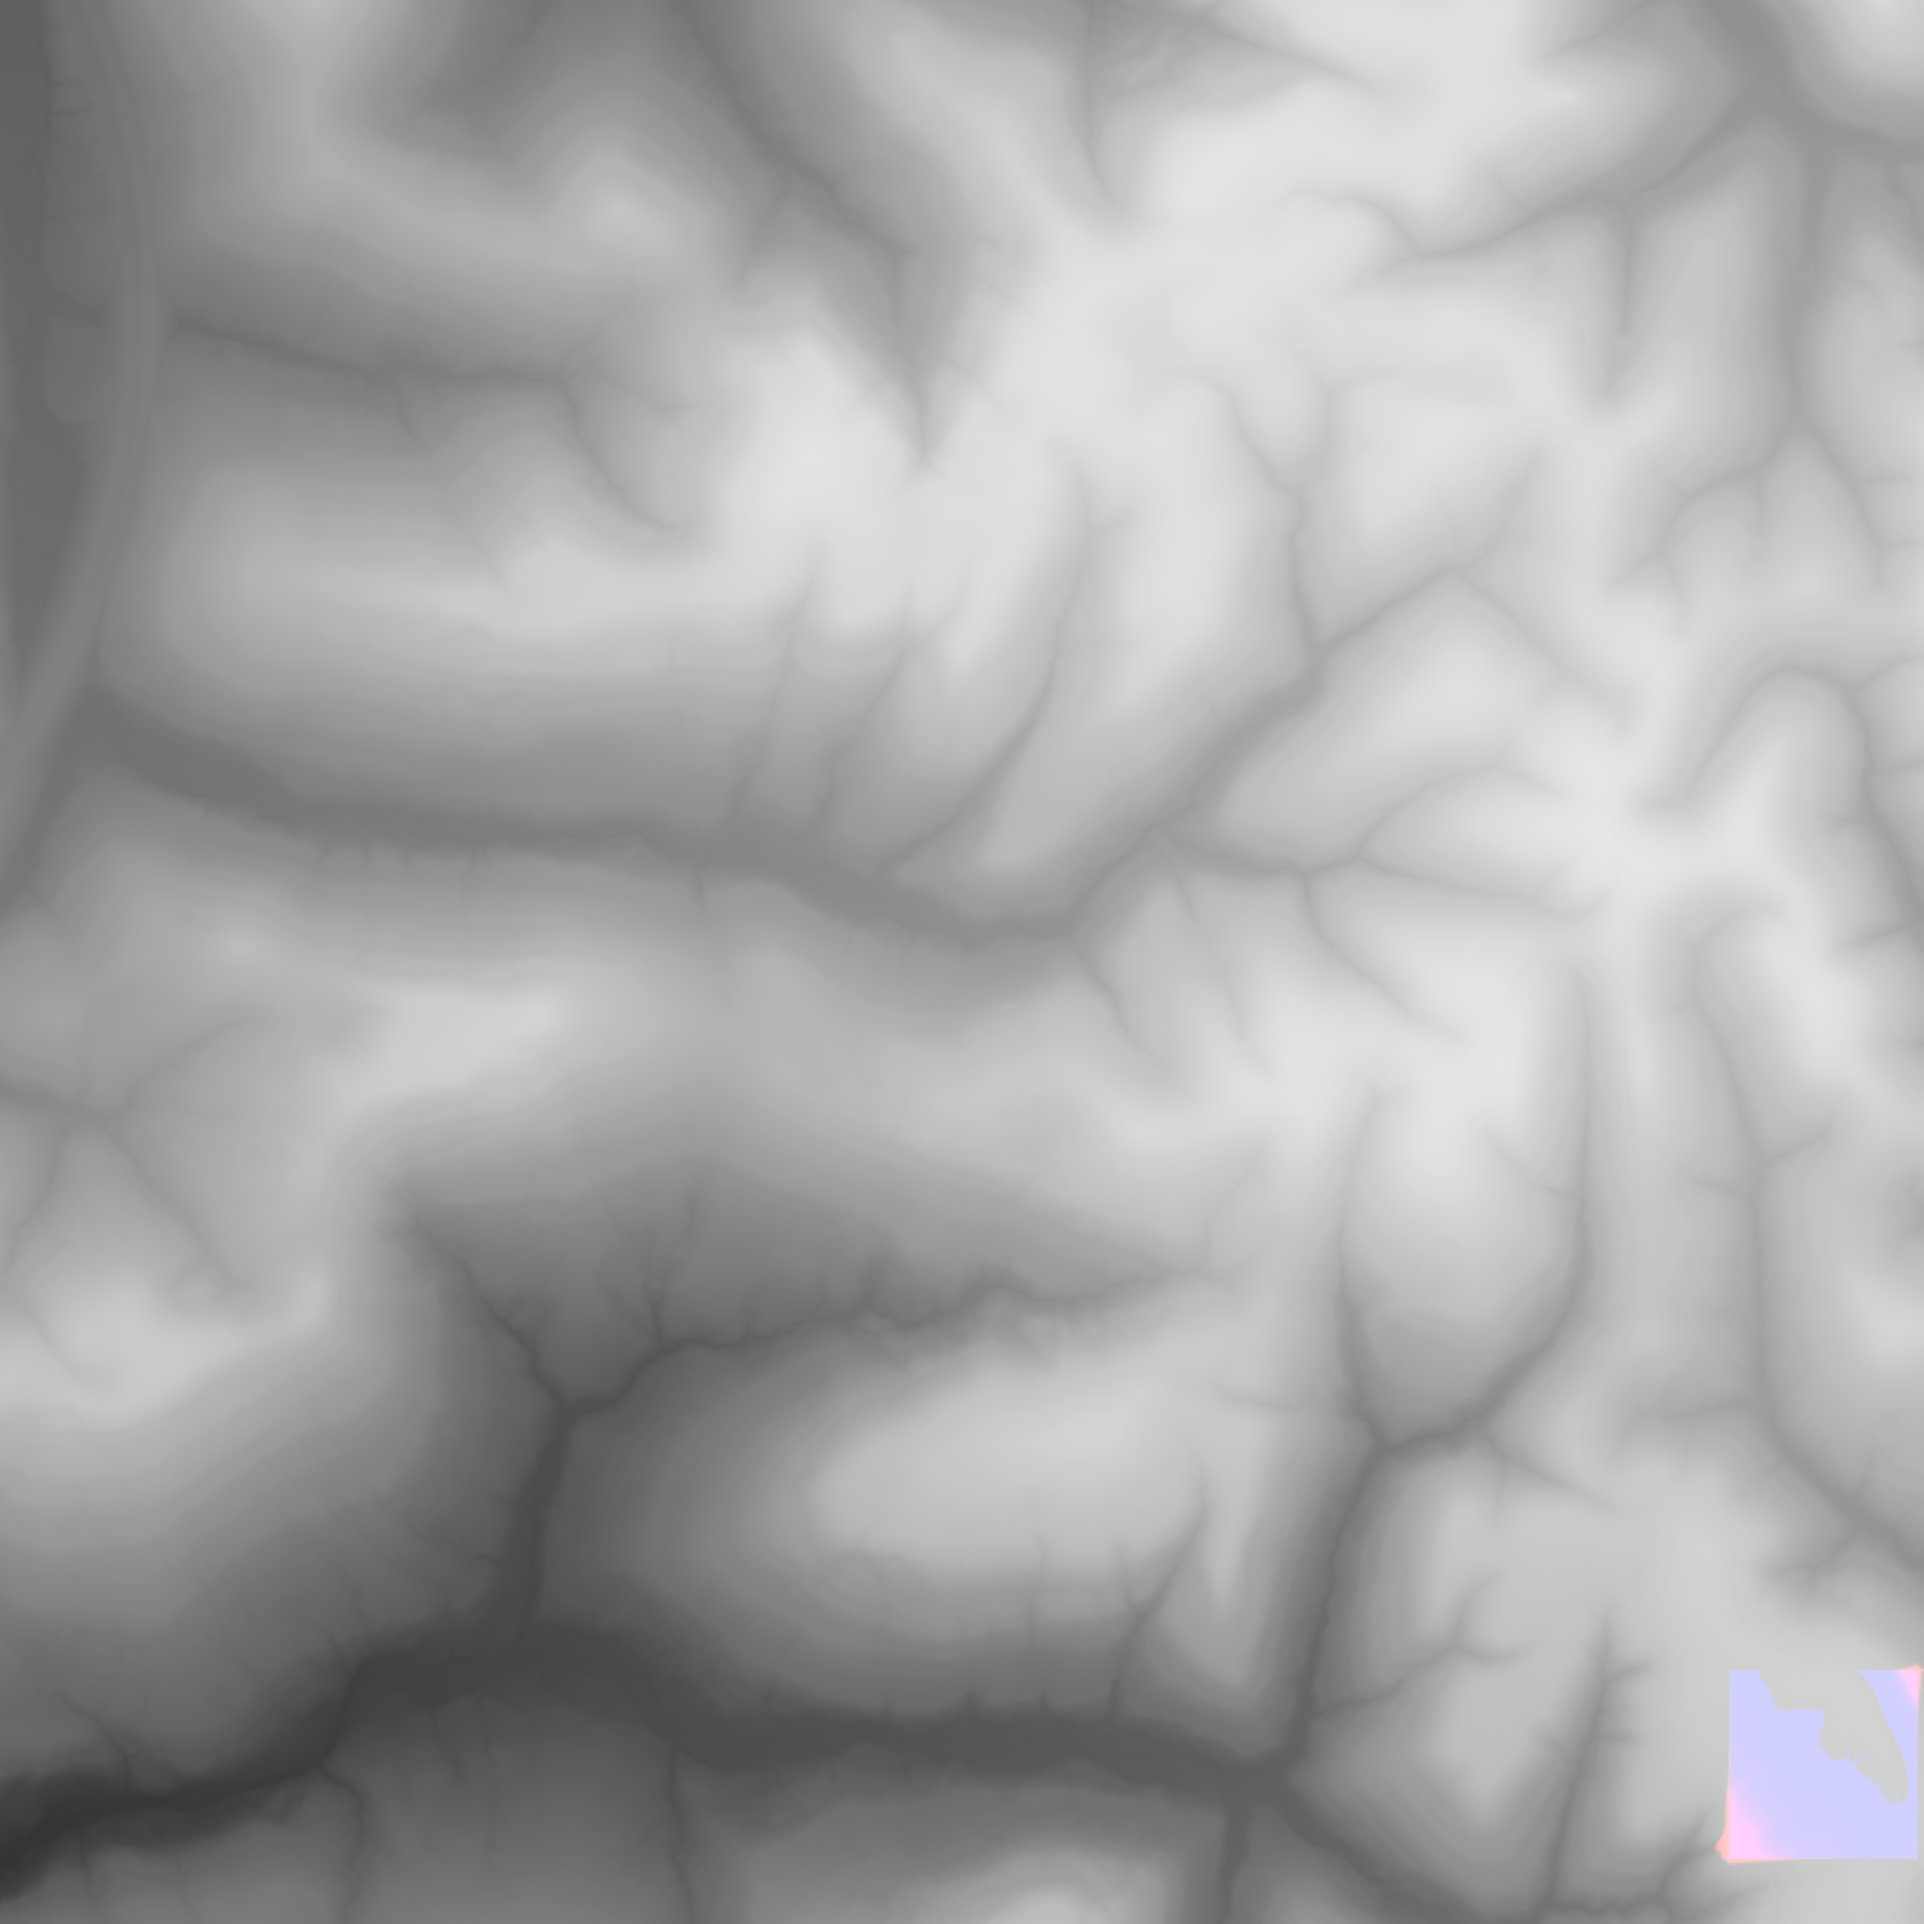
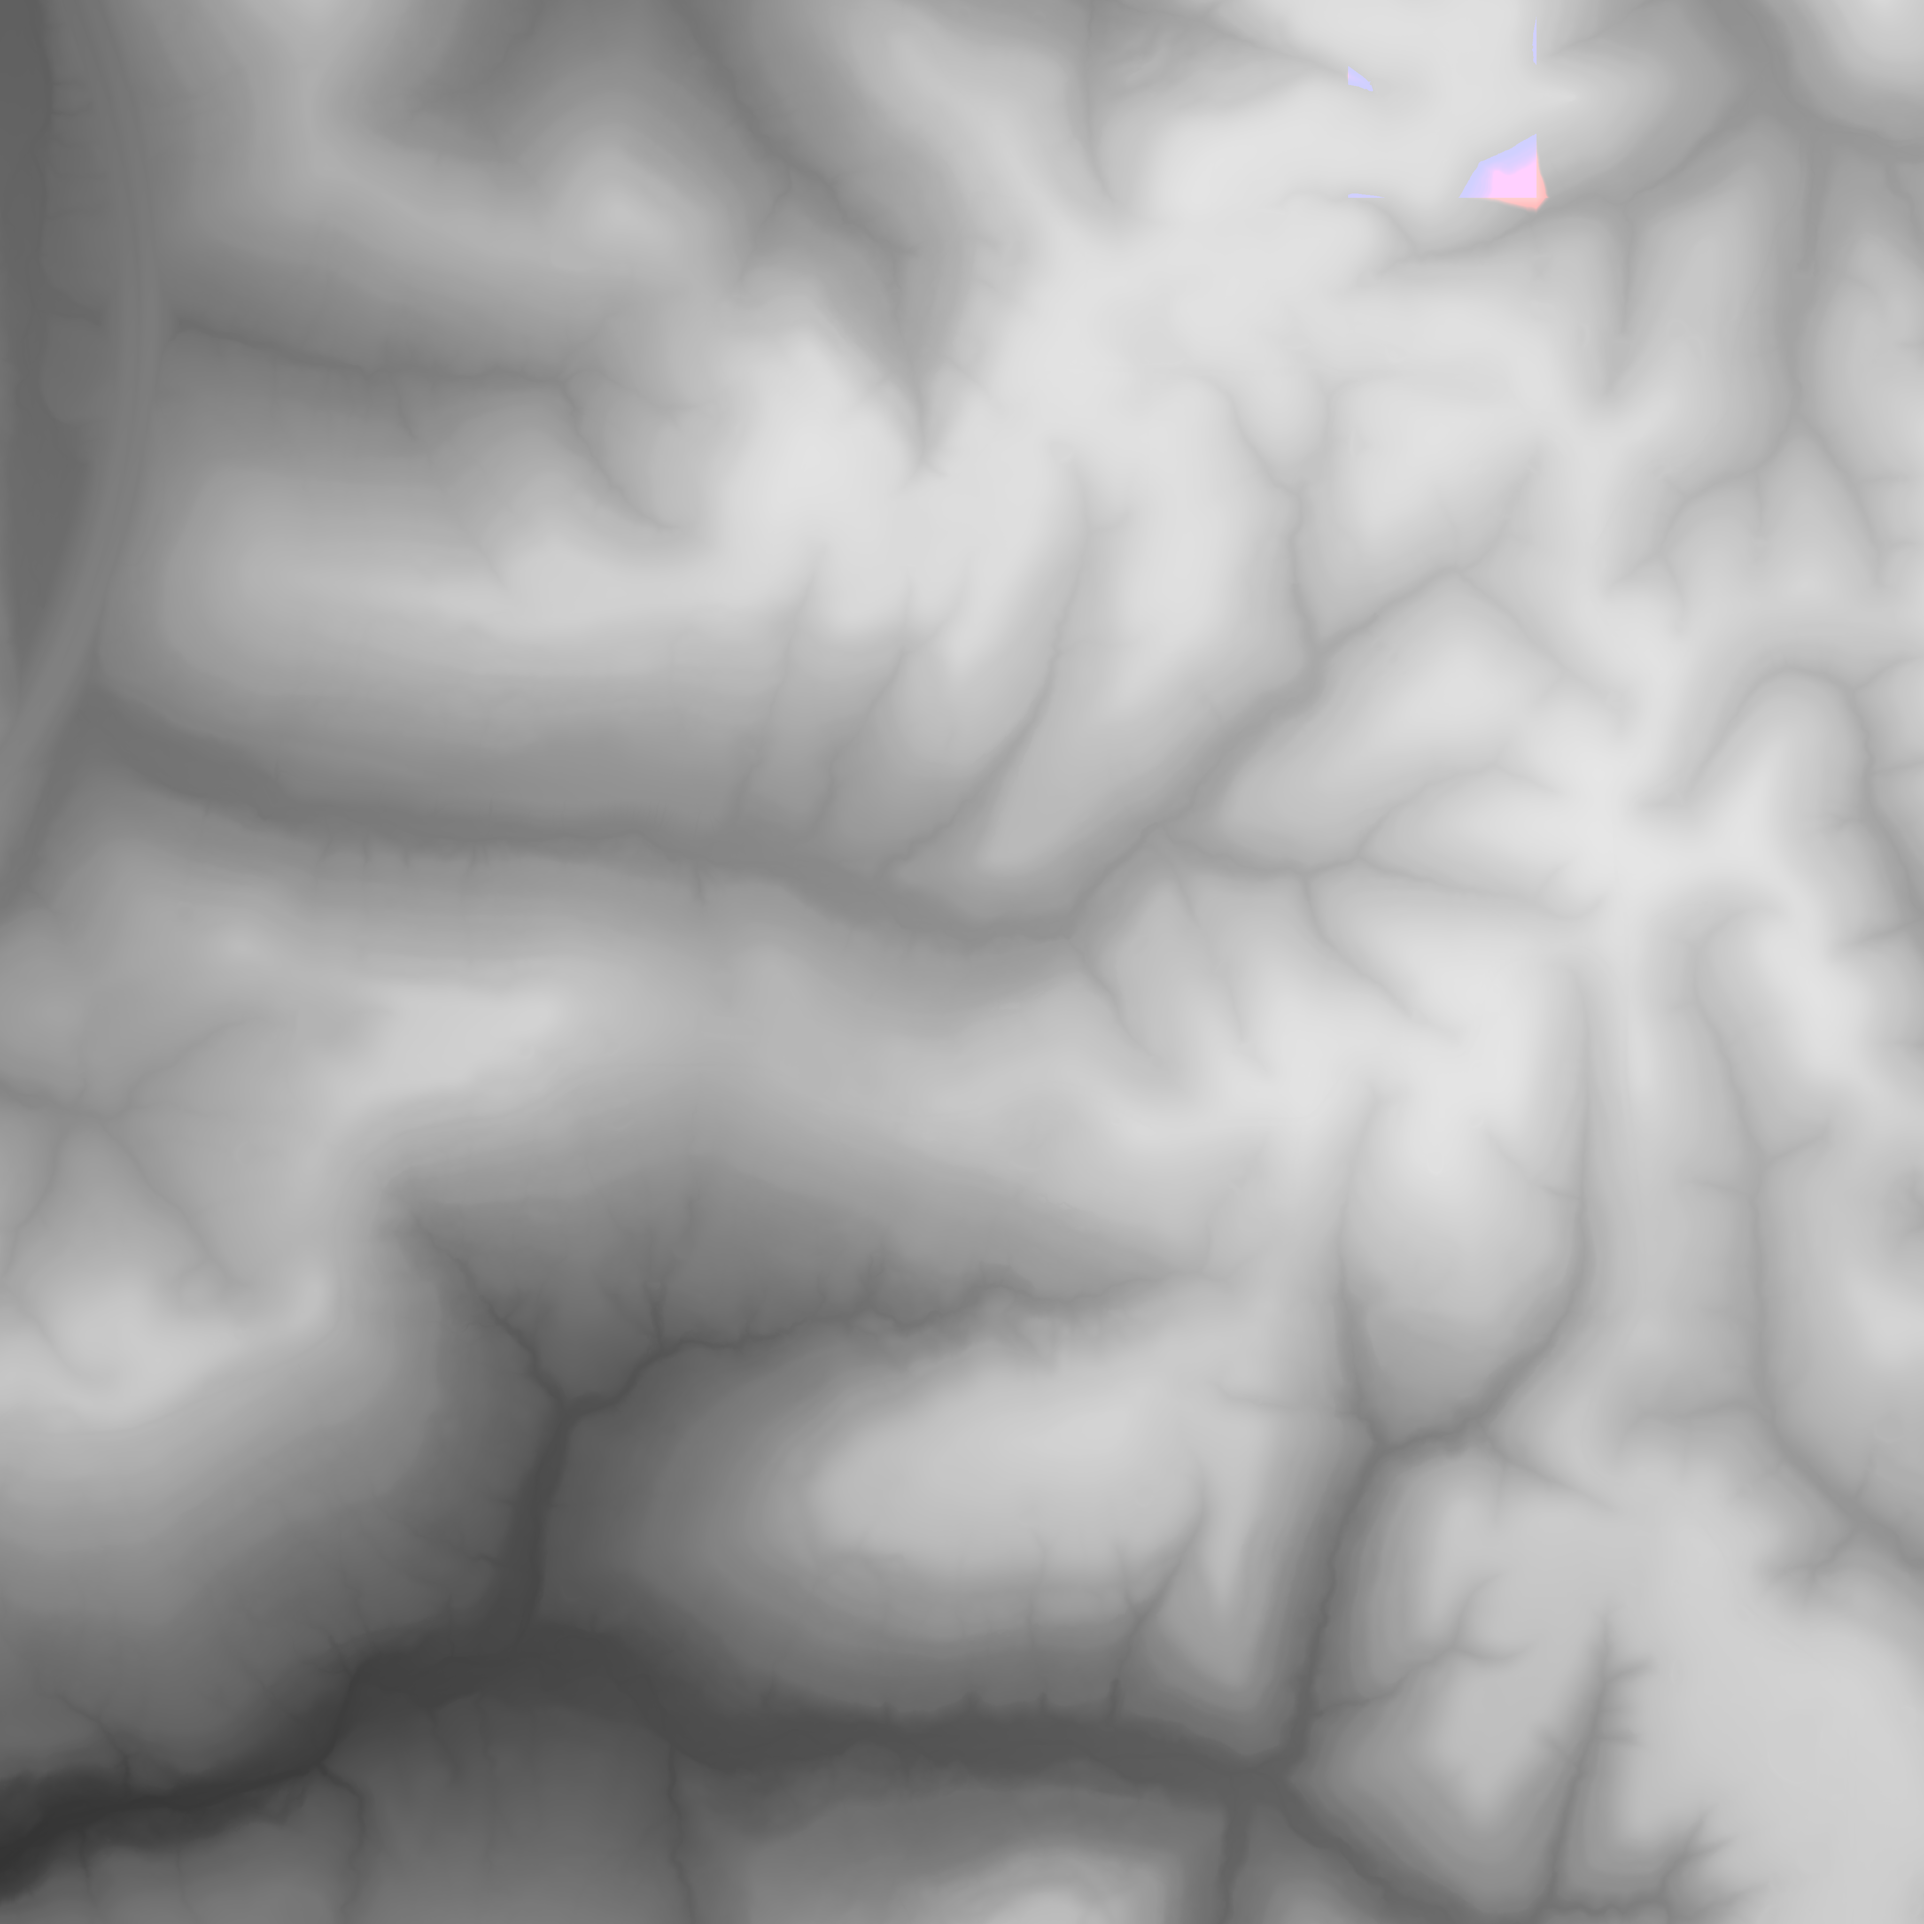
6

Changed region(s): [[0.875, 0.8438, 1.0, 0.9688], [0.75, 0.0625, 0.8125, 0.125]]

diff --git a/assigment0/Recursion.py b/assigment0/Recursion.py
@@ -1,10 +1,12 @@
 import cv2
 import numpy as np
 import math
+import random
 
 DEBUG=True
 tx=3556 # 576
 ty=3681 # 499
+cost=0
 
 def show(img,title="image",wait=True):
     d=max(img.shape[:2])
@@ -30,154 +32,120 @@ def normalize(img):
     img_copy*=255.9999
     return np.uint8(img_copy)
 
-def safe(img,x,y):
-    if np.abs(img[x,y-1]-img[x,y])<=1 and np.abs(img[x+1,y]-img[x,y])<=1 and np.abs(img[x,y+1]-img[x,y])<=1 and np.abs(img[x-x,y]-img[x,y])<=1:
-        return True
+def flowDirt(img,cimg,x,y):
+    if img[y,x]<=208:
+        if cimg[y,x,2]<255:
+            cimg[y,x,2]+=1
+        img[y,x]+=1
+        cimg[y,x,0]+=1
+        cimg[y,x,1]+=1
+        # show(cimg, wait=False)
+        if y-1>0 and img[y-1,x]<img[y,x]-1:
+            img[y,x]-=1
+            cimg[y,x,0]-=1
+            cimg[y,x,1]-=1
+            flowDirt(img,cimg,x,y-1)
+        elif x+1<4095 and img[y,x+1]<img[y,x]-1:
+            img[y,x]-=1
+            cimg[y,x,0]-=1
+            cimg[y,x,1]-=1
+            flowDirt(img,cimg,x+1,y)
+        elif y+1<4095 and img[y+1,x]<img[y,x]-1:
+            img[y,x]-=1
+            cimg[y,x,0]-=1
+            cimg[y,x,1]-=1
+            flowDirt(img,cimg,x,y+1)
+        elif x-1>0 and img[y,x-1]<img[y,x]-1:
+            img[y,x]-=1
+            cimg[y,x,0]-=1
+            cimg[y,x,1]-=1
+            flowDirt(img,cimg,x-1,y)
+    elif y-1>0 and img[y-1,x]<img[y,x]-1:
+        flowDirt(img,cimg,x,y-1)
+    elif x+1<4095 and img[y,x+1]<img[y,x]-1:
+        flowDirt(img,cimg,x+1,y)
+    elif y+1<4095 and img[y+1,x]<img[y,x]-1:
+        flowDirt(img,cimg,x,y+1)
+    elif x-1>0 and img[y,x-1]<img[y,x]-1:
+        flowDirt(img,cimg,x-1,y)
 
-def northSafe(img,x,y):
-    compareValue=img[x,y]
-    if img[x,y-1]<=img[x,y]+1 and img[x,y-1]>=img[x,y]-1:
-        return True
-    else:
-        return False
-
-def flowingDirt(img,cimg):
+def dirtDriver(img,tx=3681,ty=3556):
+    cimg=cv2.cvtColor(img,cv2.COLOR_GRAY2BGR)
     n=0
-    patch=img[ty:ty+100,tx:tx+100]
-    maxV=np.max(patch)
-    while n<100:
+    cost=0
+    patch=img[ty:ty+400,tx:tx+400]
+    maxV=208 # np.max(patch)
+    print(maxV)
+    while n<401:
         k=0
-        while k<100:
-            x=tx+k
-            y=ty+n
-
-            while img[tx+k,ty+n]<maxV:
-                img[x,y]+=1
-                currentVal=img[x,y]
-                cimg[x,y,2]+=1
-                
-                if y-1>0 and img[x,y-1]<currentVal-1:
-                    img[x,y]-=1
-                    y-=1
-                if x+1<1024 and img[x+1,y]<currentVal-1:
-                    img[x,y]-=1
-                    x+=1
-                if y-1<1024 and img[x,y+1]<currentVal-1:
-                    img[x,y]-=1
-                    y+=1
-                if x-1>0 and img[x-1,y]<currentVal-1:
-                    img[x,y]-=1
-                    x-=1
-
-                show(cimg,wait=False)
-
-            if img[tx+k,ty+n]==maxV:
-                cimg[tx+k,ty+n,0]=255
-            show(cimg,wait=False)
+        while k<401:
+            while img[ty+n,tx+k]<maxV:
+                cost+=1
+                flowDirt(img,cimg,tx+k,ty+n)
+            if img[ty+n,tx+k]==maxV:
+                cimg[ty+n,tx+k,0]=255
+            print(str((((n)*0.0025+(k+1)/160000)*100)) + "%")
+            # show(cimg,wait=False)
             k+=1
         n+=1
 
-count=0
+    return img,cimg,cost
 
-def flowDirt(img,cimg,x,y):
-    if img[x,y]<=208:
-        if cimg[x,y,2]<255:
-            cimg[x,y,2]+=1
-        img[x,y]+=1
-        cimg[x,y,0]+=1
-        cimg[x,y,1]+=1
-        # show(cimg, wait=False)
-        if y>0 and img[x,y-1]<img[x,y]-1:
-            img[x,y]-=1
-            cimg[x,y,0]-=1
-            cimg[x,y,1]-=1
-            flowDirt(img,cimg,x,y-1)
-        elif x<4095 and img[x+1,y]<img[x,y]-1:
-            img[x,y]-=1
-            cimg[x,y,0]-=1
-            cimg[x,y,1]-=1
-            flowDirt(img,cimg,x+1,y)
-        elif y<4095 and img[x,y+1]<img[x,y]-1:
-            img[x,y]-=1
-            cimg[x,y,0]-=1
-            cimg[x,y,1]-=1
-            flowDirt(img,cimg,x,y+1)
-        elif x>0 and img[x-1,y]<img[x,y]-1:
-            img[x,y]-=1
-            cimg[x,y,0]-=1
-            cimg[x,y,1]-=1
-            flowDirt(img,cimg,x-1,y)
-    elif y>0 and img[x,y-1]<img[x,y]-1:
-        flowDirt(img,cimg,x,y-1)
-    elif x<4095 and img[x+1,y]<img[x,y]-1:
-        flowDirt(img,cimg,x+1,y)
-    elif y<4095 and img[x,y+1]<img[x,y]-1:
-        flowDirt(img,cimg,x,y+1)
-    elif x>0 and img[x-1,y]<img[x,y]-1:
-        flowDirt(img,cimg,x-1,y)
+def depositDirt(img,cimg,x,y,dugPixels):
+    count=0
+    while count<dugPixels:
+        rx=random.randrange(2,4095)
+        ry=random.randrange(2,4095)
+        randPixel=img[ry,rx]
 
+        if (rx>x and x<rx+400) or (ry>y and y<ry+400):
+            pass
+        elif randPixel==img[ry,rx-1]==img[ry-1,rx]==img[ry+1,rx]==img[ry,rx+1]:
+            img[ry,rx]+=1
+            cimg[ry,rx]+=1
+            cimg[ry,rx,1]=255
+            count+=1
+
+    return img,cimg
+
+def spotFinder(img):
+    candidates=[]
+
+    h,w=img.shape
+    nimg=cv2.resize(img,dsize=(w//10,h//10))
+
+    nh,nw=nimg.shape
+    n=0
+    while n<nh:
+        k=0
+        while k<nw:
+            candidates.append([k*10,n*10,np.std(nimg[n:n+40,k:k+40])])
+            k+=1
+        n+=1
+
+    np.sort(candidates)
+    for n in range(25):
+        print(candidates[n])
 
 
-oimg=cv2.imread("../input_erosion_safe.png",0)
-h,w=oimg.shape
 
-img=oimg # oimg[3*h//4:,3*w//4:]
-cv2.imwrite("cropped-out.png",img)
-print(oimg.shape)
-cimg=cv2.cvtColor(img,cv2.COLOR_GRAY2BGR)
+img=cv2.imread("../input_erosion_safe.png",0)
+outImg=cv2.imread("out.png")
+outImg,cimg,cost=dirtDriver(img,2870,20)
 
-print(cimg.shape)
-# cimg[1000:1020,1000:1020,2]=255
-# cv2.imwrite("out.png",cimg)
+# 316451
 
-n=0
-patch=img[ty:ty+400,tx:tx+400]
-maxV=208 # np.max(patch)
-print(maxV)
-while n<401:
-    k=0
-    while k<401:
-        while img[tx+k,ty+n]<maxV:
-            flowDirt(img,cimg,tx+k,ty+n)
-        if img[tx+k,ty+n]==maxV:
-            cimg[tx+k,ty+n,0]=255
-        print(str((((n)*0.0025+(k+1)/160000)*100)) + "%")
-        # show(cimg,wait=False)
-        k+=1
-    n+=1
-
-# n=0
-# while n<451:
-#     k=0
-#     while k<451:
-#         x=tx-25+k
-#         y=ty-25+n
-#         if y>0 and img[x,y-1]<img[x,y]-1:
-#             print("False")
-#             flowDirt(img,cimg,x,y-1)
-#         if x<4095 and img[x+1,y]<img[x,y]-1:
-#             print("False")
-#             flowDirt(img,cimg,x+1,y)
-#         if y<4095 and img[x,y+1]<img[x,y]-1:
-#             print("False")
-#             flowDirt(img,cimg,x,y+1)
-#         if x>0 and img[x-1,y]<img[x,y]-1:
-#             print("False")
-#             flowDirt(img,cimg,x-1,y)
-#         k+=1
-#     n+=1
-
-# flowingDirt(img,cimg)
-
-patch=img[ty:ty+100,tx:tx+100]
-print(np.std(patch))
-print(np.average(patch))
-
-cost=np.sum(np.abs(img-oimg))
+# print(np.sum(outImg)-np.sum(img))
+print(np.sum(outImg))
+print(np.sum(img))
 print(cost)
-
-cv2.imwrite("out.png",img)
+print("Seward Cost: " + str(np.sum(np.abs(outImg-img))))
+cv2.imwrite("out.png",outImg)
 cv2.imwrite("colorOut.png",cimg)
+
+# cimg=cv2.imread("colorOut.png")
+
+# format: img[y,x]
 
 show(img,wait=True)
 show(cimg,wait=True)
